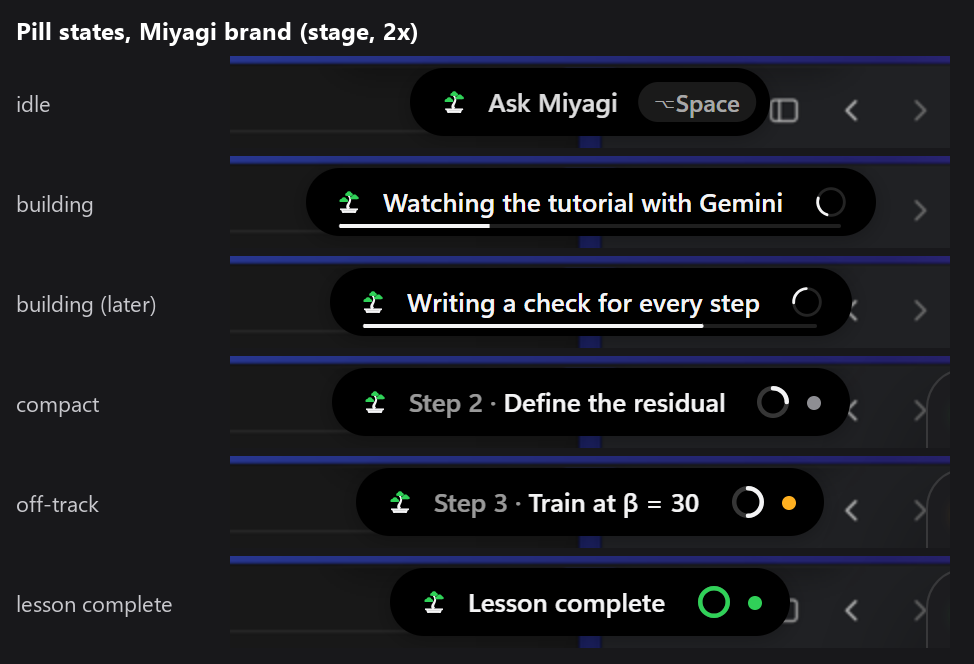
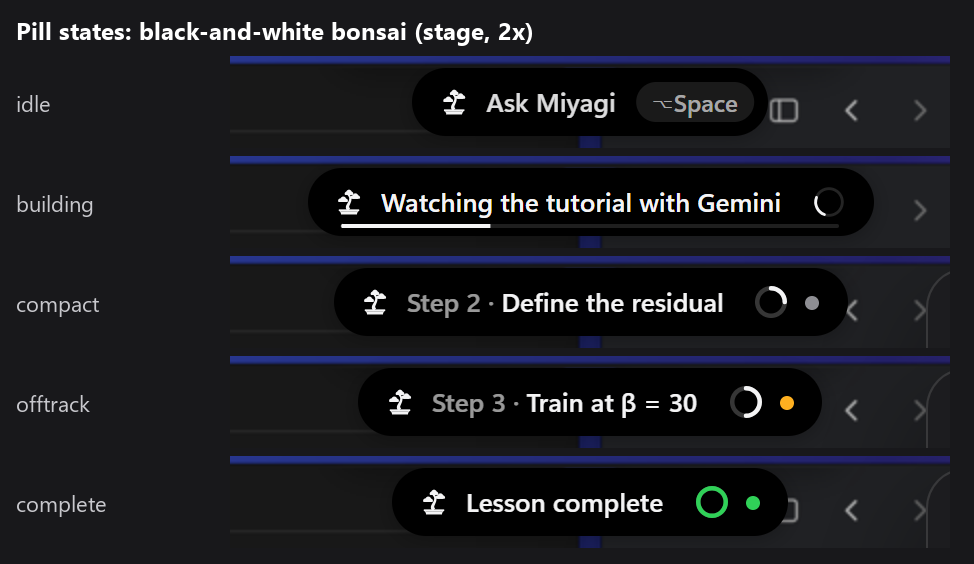
pill: brief + screenshots for the black-and-white tree (color when it opens)
Core request 5: MiyagiMark tone 'mono', a BRAND.md allowance for the
pill, and the color tree in the overview hover card.

diff --git a/app/agents/pill.md b/app/agents/pill.md
@@ -6,9 +6,10 @@
 - ✅ The step-pass moment is one gesture: check draws → ring advances → flash → text crossfades to the next step at 560ms (`shots/pill-step-pass.png`).
 - ✅ Off-track: the dot eases to amber and pulses twice (scale beats only, no glow or halo), once per episode (`shots/pill-brand-offtrack.png`).
 - ✅ Last step: "Lesson complete" with the ring closed in green.
-- ✅ Miyagi brand (core db72ef9): the bonsai (`MiyagiMark` 14, small cut) replaces the sparkle in idle, building and compact; idle says "Ask Miyagi ⌥Space"; white ring, spinner and build line (`color.accent`); green only at the pass, amber only off track, gray watching; no glows; colors from tokens only (`shots/pill-brand-states.png`, `pill-brand-step-pass.png`, `pill-brand-offtrack.png`).
+- ✅ **Black-and-white pill, color when it opens** (Adrian, Sat): the bonsai in the pill is a one-color template glyph (white on black, like a menu-bar icon), because the tiny two-tone tree read like an emoji. The launcher that grows out of the pill shows it in color (`shots/pill-brand-opens-color.png`). The hover card doesn't show the tree yet (see Core requests 5).
+- ✅ Miyagi brand (core db72ef9): the bonsai replaces the sparkle in idle, building and compact; idle says "Ask Miyagi ⌥Space"; white ring, spinner and build line (`color.accent`); green only at the pass, amber only off track, gray watching; no glows; colors from tokens only (`shots/pill-brand-states.png`, `pill-brand-step-pass.png`, `pill-brand-offtrack.png`).
 - ✅ Mac notch: core now places the pill just under the notch (`pillTop 40`), which settles the demo risk in Core requests 2.
-- ✅ On `adrian/shell` db72ef9 (brand kit). Pass-1 commits are already merged there (701aa06).
+- ✅ On `adrian/shell` 02566bc (launcher brand pass merged). Pass-1 commits are already merged there (701aa06).
 - ❌ Not seen in Electron (Windows). Checked in headless Chrome at 1600×1000 (the Browser pane was hidden).
 
 ## Goal
@@ -37,13 +38,14 @@ islandModes: idle (0), building (1), compact (2). The morphing container itself 
 **First pass (no spec from Adrian yet):** build to the mockups in `docs/mockups/` (01–05 are the target look; 06–07 are earlier explorations to restyle in the Apple look) and the animation + placement spec in `docs/FRONTEND-HANDOFF.md`. Don't spend time on colors (Adrian's theme comes later). Adrian reviews after this pass and writes his spec here for pass 2.
 
 ## Core requests
-_Written against core `db72ef9` (brand kit)._
+_Written against core `02566bc`._
 
 1. **Landing overshoot (bug, signature transition). Still there on db72ef9 (same code).** In `core/Island.tsx:93–97`, on `pill:receive` (`:33`) the width snaps to `pill.landingWidth` with `transition={{ duration: 0 }}`. That one-frame jump leaves the width motion value with a large velocity. The next `springOut` inherits it, so the island balloons before settling. Measured on 660f238 every 40ms after landing: 300 → 520 → 538 → 478 → 387 → 320 → 285 → 262 → 243. It shows as a ~540pt black bar right after the launcher lands (`shots/pill-landing-overshoot.png`, frames +560 to +622ms).
    *Fix:* drive width and height with `useMotionValue`, call `width.jump(pill.landingWidth)` and `height.jump(pill.height)` in the `pill:receive` handler (`jump` resets velocity), then `animate(width, size.w, springOut)` as now. Minimal alternative: add `velocity: 0` to the transition, but only for the first animation after landing (a `justLanded` ref, cleared on the next size change). Using `velocity: 0` on every retarget would make the island stutter while it follows the pill's growing text slot.
 2. **Notch shape (decide in pass 2). Placement is done: `pillTop 40` puts the pill under the notch.** Mockups 01 and 02 attach the island to the top edge, not as a free stadium at y = 6. Measured in 01: flat top at y = 0, body 258×36, flaring to 278 at y = 0 (two small concave "ears"), bottom corners about 14pt round. Mockup 02's card has the same attachment with about 24pt bottom corners. This matters more now that every surface is born from the island, since the launcher grows out of whatever shape the island has. If adopted, in `core/Island.tsx:81` (`top`) and `:95` (`borderRadius`): `top` 0 on Mac, pill height 36, `borderRadius: isPill ? '0 0 14px 14px' : '0 0 24px 24px'`, plus the two inverse-corner ears.
 3. **Stage: `?scenario=` is ignored when something listens on 8787. Unchanged on db72ef9.** `bridge.ts:66–69` tries `ws://localhost:8787` first. Right now `npm run mock happy` from `repo/app` is running there, so every agent's stage silently plays *that* server's scenario instead of its own `?scenario=`. Suggest: when `?scenario=` is given explicitly, skip the socket and run inline. Workaround: append `&engine=ws://127.0.0.1:9` (dead port → inline mock after 900ms).
 4. **Every `<button>` ignores its Tailwind font size and weight (affects all features).** `styles.css:47–48` has an unlayered `button { font: inherit }`. Tailwind v4 utilities live in `@layer utilities`, and unlayered CSS beats layered CSS, so `text-[14px] font-semibold` on a button does nothing: it renders at the body's 16px / 400. Measured in the stage: the cards' "Explain" and "Apply fix" (`CardButton`, `text-[14px] font-semibold`) compute to 16px/400, and so did the pill's idle label until I moved the type onto an inner span. *Fix:* wrap the reset in `@layer base { button { font: inherit; color: inherit; } }`.
+5. **Black-and-white tree in the pill; color once the island opens (Adrian's call).** (a) `core/ui/Mark.tsx`: add `tone: 'mono'`, which renders the cut's SVG as a CSS mask filled with `currentColor` (no redraw), so the pill can drop its local `MonoMark` (`features/pill/parts.tsx`) and use the shared component. (b) `app/brand/BRAND.md` → Logo, Don't: allow the one-color template version in the notch pill only (it currently says "recolor the pads" is a don't). (c) **overview** (hover card, `features/overview/`): put `<MiyagiMark size={16} />` (color) in the top-left of the card header, where the pill's white tree sits, so hovering visibly opens the black-and-white pill into color. The launcher already does this (`Launcher.tsx:429`, color tree in the input).
 
 ## Notes
 - **Ring = steps done / total** (computed in the pill), not core's `useProgress().fraction`, which also counts checks inside the step. With check-level progress the last check already fills the ring, so nothing moves visibly at the pass. Now the ring advances exactly one step on the spring at each pass.
@@ -54,6 +56,8 @@ _Written against core `db72ef9` (brand kit)._
 - **`island:size` traffic (FYI for core):** when the step text changes, the pill's text slot springs its width over about 300ms. The island re-measures on every frame, so `Island.tsx:63–65` emits `island:size` about 20 times per step change (IPC to main in Electron). This is harmless, but if it ever shows up, emit only when the size settles or while the launcher is closed.
 - Generality rule: no PINN-specific UI strings in the pill ("Ask Miyagi", "Building your lesson", "Step N ·", "Lesson complete"). PINN only appears as mock data in `mock/scenarios/pill.json`.
 - Reduced motion: `MotionConfig reducedMotion="user"` turns off the y offsets and the scale pulses. Crossfades, color changes and the width spring stay.
+- **Mono tree:** `MonoMark` masks the small-cut SVG (`assets/brand/tree-small-dark.svg`) with `color.text`. It's 16px rather than 14, because at 16 the art is about 10.5×12, the optical size of mockup 01's icon, and it sits 15px from the edge and 11px before the text, as in the mockup (pad 13, gap 8). At 14 the tree read as a speck.
+- **Slop check (Sat):** the pill has no gradients, glows, emoji, sparkles or purple. It uses one accent (white), the system font, and motion that only marks state changes. The tiny colored tree was the one thing that read as "generated"; it's now the white glyph. One candidate left: building shows a spinner *and* a progress line for the same thing. Drop one if Adrian wants it quieter.
 - **Brand details:** the ring track is the accent at 22% opacity, like the Activity rings, so no new color. Building now mirrors compact: bonsai left, message, spinner where the ring will be. The check stroke is `color.island` on `color.green`. The ring closes in green only when the lesson is complete, which counts as passed.
 - Own pieces in `features/pill/parts.tsx` (`PillRing`, `StatusMark`, `SwapText`, `BuildLine`), not the shared `core/ui/atoms` ones, because the pill sizes (16px ring, 7px dot) differ from the cards'.
 - **How to see it:** `http://localhost:5174/?scenario=pill&engine=ws://127.0.0.1:9` runs idle → building → steps 1–2 pass on their own → step 3 off-track (Esc to see the amber pulse) → step 4 → "Lesson complete" in about 35s. `?scenario=full&engine=ws://127.0.0.1:9`: Ctrl+K, type, Enter, Enter → step 4 passes at about +10s → step 6 goes off-track. HUD Reset restarts.
